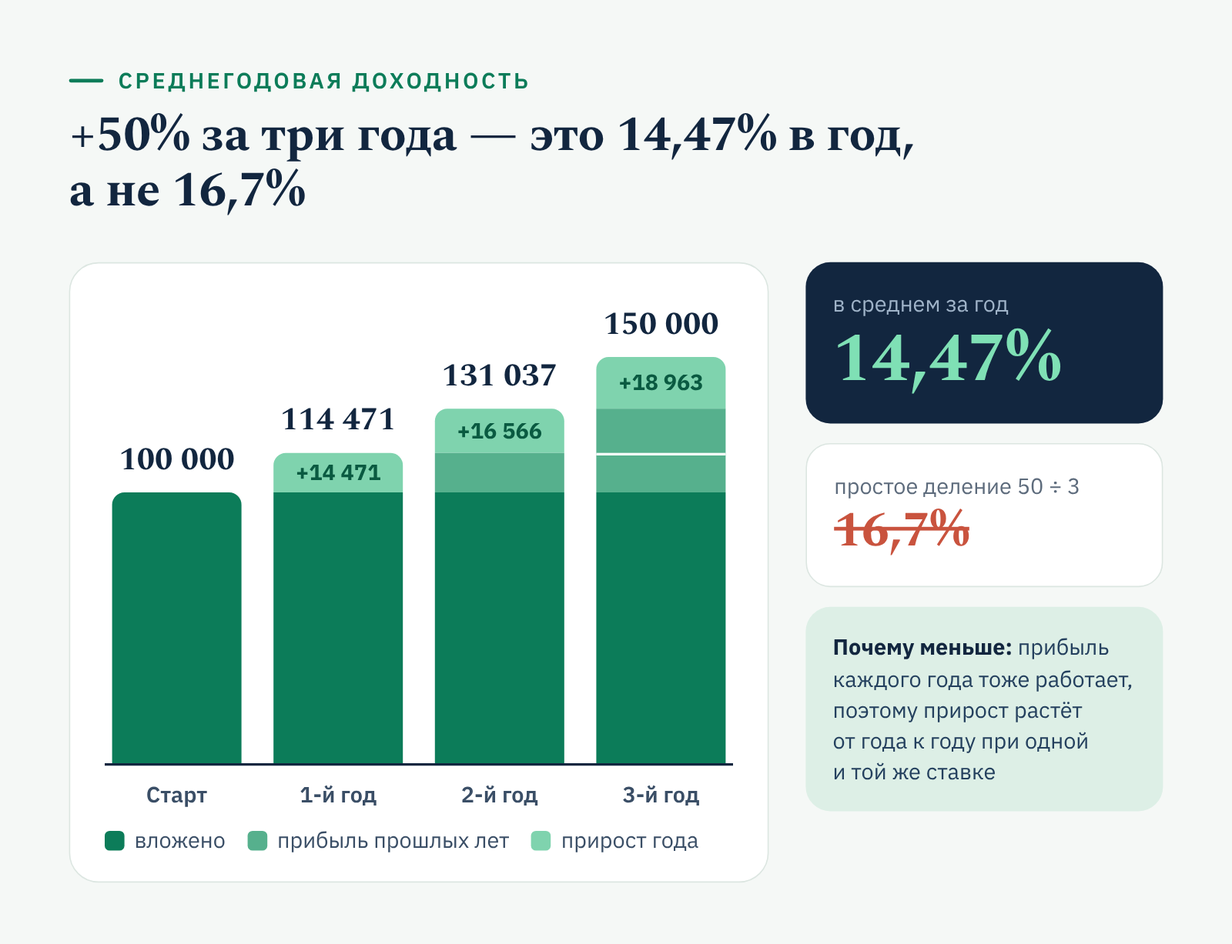
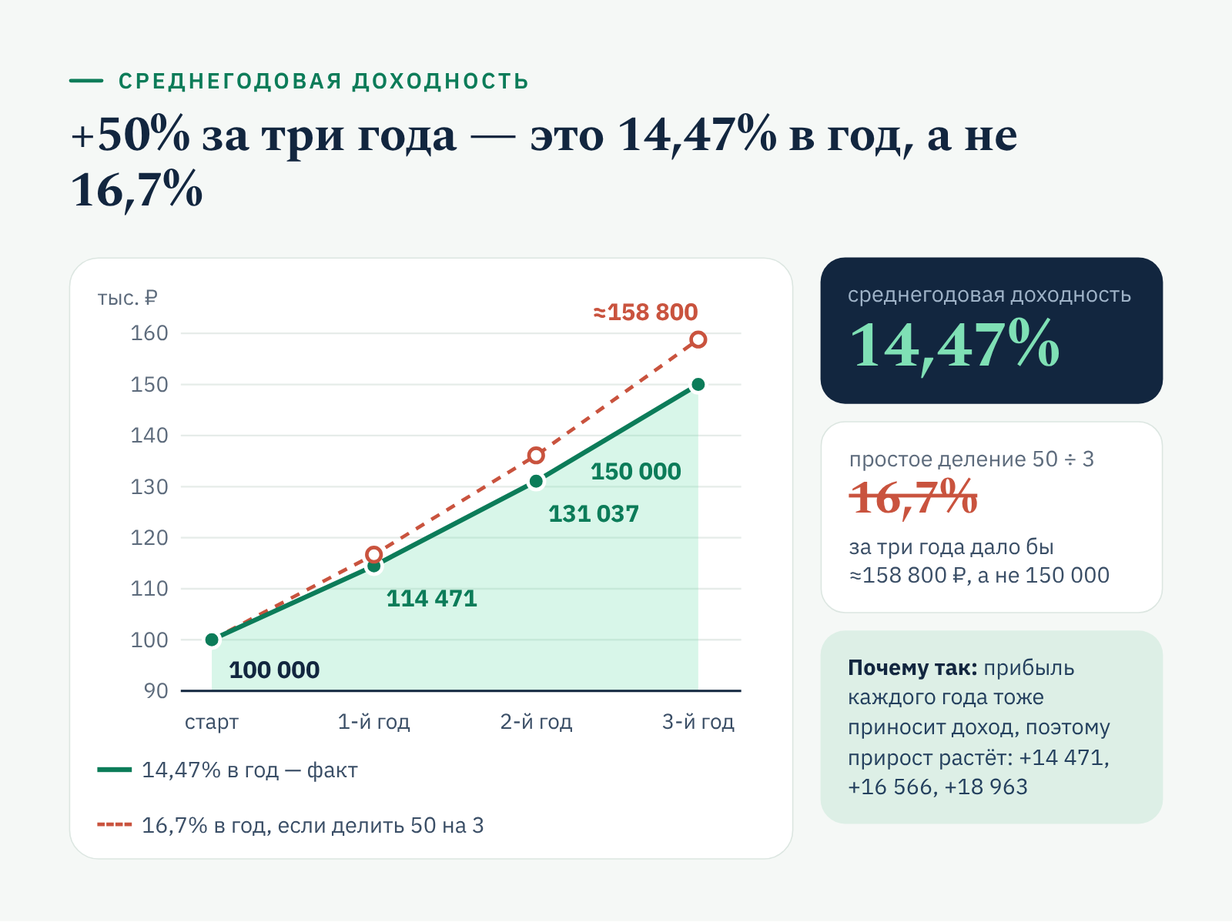
Финуслуги: метрики риска — новые графики; ПДС — картинка выше и перерисована
Claude-Session: https://claude.ai/code/session_019cK9yct1hn6hSG5cVDbxuB

diff --git a/works/finuslugi-1.html b/works/finuslugi-1.html
@@ -150,7 +150,7 @@ h1{font:800 clamp(34px,5.4vw,68px)/1 var(--display);letter-spacing:-.04em;margin
       <div class="tdr">
         <section><h3>Задача</h3><p>Объяснить частному инвестору, по каким метрикам оценивать доходность и риск вложений, — так, чтобы формулы стали рабочим инструментом, а не теорией из учебника.</p></section>
         <section><h3>Решение</h3><p>Выстроила статью от понятий к расчётам: что съедает доходность (инфляция, налоги, комиссии), пять видов риска с реальными примерами (кризис 2008 года, банкротство Enron), затем шесть метрик — абсолютная и среднегодовая доходность, коэффициент Шарпа, VaR, бета, стандартное отклонение — с формулой и разобранным примером для каждой. Финал — восемь практических рекомендаций. Все расчёты в тексте и инфографике пересчитала вручную.</p></section>
-        <section class="res"><h3>Результат</h3><p>Сложная инвестиционная тема изложена на языке частного инвестора: каждая формула сопровождается расчётом на понятных суммах, а пять схем показывают реальную доходность, карту рисков, сложный процент, VaR на кривой распределения и стандартное отклонение по шагам.</p></section>
+        <section class="res"><h3>Результат</h3><p>Сложная инвестиционная тема изложена на языке частного инвестора: каждая формула сопровождается расчётом на понятных суммах, а шесть схем показывают реальную доходность как гонку денег и цен, концентрическую карту рисков, сложный процент на графике, VaR на кривой распределения, стандартное отклонение через квадраты отклонений и мини-дашборд из четырёх метрик.</p></section>
       </div>
       
       <nav class="sibs" aria-label="Другие тексты для этого заказчика"><span class="eyebrow">Ещё для «Финуслуги»</span><ul><li><a href="finuslugi-1.html" aria-current=page>Метрики риска и доходности</a></li><li><a href="finuslugi-2.html">Программа долгосрочных сбережений</a></li><li><a href="finuslugi-3.html">Депозиты для бизнеса</a></li><li><a href="finuslugi-faq.html">FAQ для продуктовой страницы</a></li></ul></nav>
@@ -179,8 +179,8 @@ h1{font:800 clamp(34px,5.4vw,68px)/1 var(--display);letter-spacing:-.04em;margin
 <p><strong>Инфляция уменьшает реальную стоимость прибыли.</strong> Если актив приносит 12% годовых, а инфляция составляет 10%, реальная доходность — всего около 2%. Для долгосрочных вложений этот фактор может оказаться решающим.</p>
 <p><strong>Налоги уменьшают чистый доход.</strong> Для разных активов и видов дохода действуют свои правила налогообложения. Уточняйте налоговые обязательства заранее, особенно если получаете дивиденды или купоны.</p>
 <figure>
-<img alt="Из 12% номинальной доходности при инфляции 10% реально остаётся около 2% — и это ещё до налогов и комиссий" height="1302" loading="lazy" src="img/finuslugi-1/01.png" width="1600"/>
-<figcaption aria-hidden="true">Из 12% номинальной доходности при инфляции 10% реально остаётся около 2% — и это ещё до налогов и комиссий</figcaption>
+<img alt="Деньги растут на 12%, а цены — на 10%: в реальном выражении остаётся около 2%, и это ещё до налогов и комиссий" height="1126" loading="lazy" src="img/finuslugi-1/01.png" width="1600"/>
+<figcaption aria-hidden="true">Деньги растут на 12%, а цены — на 10%: в реальном выражении остаётся около 2%, и это ещё до налогов и комиссий</figcaption>
 </figure>
 <p><strong>Комиссии сокращают общий результат.</strong> Плата брокеру за сделки, вознаграждение управляющей компании или фонду напрямую уменьшают прибыль. Регулярные комиссии могут «съедать» заметную часть заработка, даже если активы растут.</p>
 <p>Учитывая все три фактора, вы оцениваете доходность реалистично и точнее планируете финансовые цели.</p>
@@ -191,8 +191,8 @@ h1{font:800 clamp(34px,5.4vw,68px)/1 var(--display);letter-spacing:-.04em;margin
 <p><strong>Кредитный риск</strong> возникает, когда контрагент — например, эмитент облигаций — не выполняет обязательства. Если компания-эмитент обанкротится, инвесторы могут потерять вложения. Хрестоматийный пример — крах американской Enron в 2001 году, обернувшийся огромными убытками для её акционеров и кредиторов.</p>
 <p><strong>Риск ликвидности</strong> — это трудности с продажей актива по справедливой цене. Коммерческую недвижимость, например, бывает сложно быстро продать без существенной скидки.</p>
 <figure>
-<img alt="Пять видов риска, с которыми сталкивается инвестор, и откуда каждый из них берётся" height="1365" loading="lazy" src="img/finuslugi-1/02.png" width="1600"/>
-<figcaption aria-hidden="true">Пять видов риска, с которыми сталкивается инвестор, и откуда каждый из них берётся</figcaption>
+<img alt="Риски расходятся кругами — от свойств самого актива до мировой политики" height="1235" loading="lazy" src="img/finuslugi-1/02.png" width="1600"/>
+<figcaption aria-hidden="true">Риски расходятся кругами — от свойств самого актива до мировой политики</figcaption>
 </figure>
 <p><strong>Операционный риск</strong> связан со сбоями внутри компании: ошибками управления, отказами IT-систем, мошенничеством. Утечка данных в крупной компании оборачивается убытками и падением стоимости её акций.</p>
 <p><strong>Геополитический риск</strong> возникает из-за изменений в политической и экономической обстановке. Санкции, торговые войны, новые пошлины и налоговые правила могут резко повлиять на стоимость активов, привести к заморозке вложений или потере доступа к зарубежным рынкам.</p>
@@ -208,8 +208,8 @@ h1{font:800 clamp(34px,5.4vw,68px)/1 var(--display);letter-spacing:-.04em;margin
 <p><strong>Формула:</strong> среднегодовая доходность = (конечная стоимость ÷ начальная стоимость)^(1/n) − 1, где n — количество лет.</p>
 <p><strong>Пример.</strong> Вложение выросло со 100 000 до 150 000 рублей за три года: (150 000 ÷ 100 000)^(1/3) − 1 ≈ 0,1447, то есть <strong>14,47% годовых</strong>.</p>
 <figure>
-<img alt="Как 100 000 рублей превращаются в 150 000 за три года при среднегодовой доходности 14,47%" height="1227" loading="lazy" src="img/finuslugi-1/03.png" width="1600"/>
-<figcaption aria-hidden="true">Как 100 000 рублей превращаются в 150 000 за три года при среднегодовой доходности 14,47%</figcaption>
+<img alt="Сложный процент на графике: 14,47% в год дают ровно 150 000 рублей за три года, а 16,7% с реинвестированием дали бы около 158 800" height="1198" loading="lazy" src="img/finuslugi-1/03.png" width="1600"/>
+<figcaption aria-hidden="true">Сложный процент на графике: 14,47% в год дают ровно 150 000 рублей за три года, а 16,7% с реинвестированием дали бы около 158 800</figcaption>
 </figure>
 <p>Обратите внимание: общий прирост за три года — 50%, но в пересчёте на год это не 16,7%, а 14,47%. Метрика позволяет честно сравнивать активы с разными сроками инвестирования.</p>
 <h3>Коэффициент Шарпа</h3>
@@ -244,12 +244,16 @@ h1{font:800 clamp(34px,5.4vw,68px)/1 var(--display);letter-spacing:-.04em;margin
 <p><strong>Формула:</strong> σ = √( Σ(Rᵢ − R̄)² ÷ N ), где Rᵢ — доходность за период, R̄ — средняя доходность, N — количество периодов.</p>
 <p><strong>Пример.</strong> Доходность актива за три года — 10%, 15% и 20%. Средняя доходность: (10 + 15 + 20) ÷ 3 = 15%. Стандартное отклонение: √(((10 − 15)² + (15 − 15)² + (20 − 15)²) ÷ 3) = √(50 ÷ 3) ≈ <strong>4,1%</strong>.</p>
 <figure>
-<img alt="Стандартное отклонение по шагам: от средней доходности к разбросу около 4,1 п. п." height="986" loading="lazy" src="img/finuslugi-1/05.png" width="1600"/>
-<figcaption aria-hidden="true">Стандартное отклонение по шагам: от средней доходности к разбросу около 4,1 п. п.</figcaption>
+<img alt="Стандартное отклонение по шагам: отклонения от средней, их квадраты и корень из среднего квадрата — около 4,1%" height="1146" loading="lazy" src="img/finuslugi-1/05.png" width="1600"/>
+<figcaption aria-hidden="true">Стандартное отклонение по шагам: отклонения от средней, их квадраты и корень из среднего квадрата — около 4,1%</figcaption>
 </figure>
 <p>Чем выше стандартное отклонение, тем сильнее колеблется доходность и тем менее предсказуем результат. Этот же показатель стоит в знаменателе коэффициента Шарпа и в формуле VaR — поэтому волатильность влияет сразу на несколько метрик риска.</p>
 <h2>Баланс между доходностью и безопасностью</h2>
 <p>Метрики помогают найти баланс между прибылью и риском. Актив с высокой доходностью может не подойти консервативному инвестору, если у него слишком большие стандартное отклонение и VaR. Коэффициент Шарпа помогает выбрать инструменты с лучшим соотношением риска и доходности, а бета — понять, как портфель поведёт себя при резком движении рынка.</p>
+<figure>
+<img alt="Четыре метрики на примерах из статьи: каждая отвечает на свой вопрос о портфеле" height="1277" loading="lazy" src="img/finuslugi-1/06.png" width="1600"/>
+<figcaption aria-hidden="true">Четыре метрики на примерах из статьи: каждая отвечает на свой вопрос о портфеле</figcaption>
+</figure>
 <blockquote>
 <p><strong>Главное правило:</strong> анализируйте метрики в комплексе. Ни одна из них по отдельности не даёт полной картины — вместе они показывают, подходит ли портфель вашим целям и допустимому уровню риска.</p>
 </blockquote>

diff --git a/works/finuslugi-2.html b/works/finuslugi-2.html
@@ -210,6 +210,20 @@ h1{font:800 clamp(34px,5.4vw,68px)/1 var(--display);letter-spacing:-.04em;margin
 <h2>Обязательна ли программа</h2>
 <p>Нет. <strong>ПДС — исключительно добровольный формат</strong>, и каждый сам решает, нужны ли ему дополнительные накопления. Возврат части налога и ежегодное софинансирование служат стимулом, а не обязанностью.</p>
 <p>Условия гибкие: размер и периодичность взносов зависят от возможностей участника. Фонды предлагают разные инвестиционные стратегии — от консервативных, с упором на облигации, до более рискованных. Агрессивная стратегия может принести больший доход, но стоимость активов при ней сильнее колеблется. Консервативная даёт умеренный, зато стабильный результат.</p>
+<h2>Кому подходит программа</h2>
+<p>ПДС подходит широкому кругу людей, но выгода у каждой группы своя.</p>
+<ul>
+<li><strong>Молодёжь и люди трудоспособного возраста.</strong> Чем раньше начать, тем сильнее эффект сложного процента. Регулярные взносы вместе с господдержкой формируют заметный резерв к пенсии.</li>
+<li><strong>Люди пенсионного возраста.</strong> Могут копить и получать господдержку, но деньги станут доступны через 15 лет или по достижении установленного возраста.</li>
+<li><strong>Работодатели.</strong> Корпоративные программы ПДС повышают лояльность сотрудников и помогают удерживать ценные кадры.</li>
+<li><strong>Родители.</strong> Могут заключить договор в пользу ребёнка и начать копить на его будущие крупные цели.</li>
+</ul>
+<p>Для всех групп работают одни и те же механизмы — личные взносы, господдержка, налоговый вычет и страхование накоплений.</p>
+<figure>
+<img alt="Механизмы ПДС одинаковы для всех участников, а цели у каждой группы свои" height="1301" loading="lazy" src="img/finuslugi-2/03.png" width="1600"/>
+<figcaption aria-hidden="true">Механизмы ПДС одинаковы для всех участников, а цели у каждой группы свои</figcaption>
+</figure>
+<p>Разница — в цели: у одних это прибавка к пенсии, у других — инструмент удержания сотрудников или капитал для ребёнка. А срок для всех одинаковый: деньги станут доступны через 15 лет или по достижении 55 лет для женщин и 60 лет для мужчин.</p>
 <h2>Можно ли досрочно забрать деньги из ПДС</h2>
 <p>Да, но только в определённых случаях. <strong>В особых жизненных ситуациях — при дорогостоящем лечении или потере кормильца — участник может забрать до 100% накоплений.</strong> Обстоятельства нужно подтвердить документами.</p>
 <p>Если выйти из программы досрочно без веской причины, можно потерять инвестиционный доход и часть преимуществ — софинансирование и налоговый вычет. Поэтому решение о расторжении договора стоит взвесить заранее: программа рассчитана на длительный срок и цель у неё одна — накопить резерв к пенсии или через 15 лет.</p>
@@ -258,7 +272,7 @@ h1{font:800 clamp(34px,5.4vw,68px)/1 var(--display);letter-spacing:-.04em;margin
 </table></div>
 <p>Чем ниже доход, тем щедрее доплата: при зарплате до 80 000 рублей государство фактически удваивает каждый рубль взноса. Такая схема действует десять лет, а право на налоговый вычет можно использовать параллельно.</p>
 <figure>
-<img alt="Сколько нужно внести самому, чтобы получить максимальные 36 000 рублей господдержки, — при разном доходе" height="1446" loading="lazy" src="img/finuslugi-2/03.png" width="1600"/>
+<img alt="Сколько нужно внести самому, чтобы получить максимальные 36 000 рублей господдержки, — при разном доходе" height="1446" loading="lazy" src="img/finuslugi-2/04.png" width="1600"/>
 <figcaption aria-hidden="true">Сколько нужно внести самому, чтобы получить максимальные 36 000 рублей господдержки, — при разном доходе</figcaption>
 </figure>
 <p>Если сложить софинансирование и вычет, при взносе 36 000 рублей в год человек с доходом до 80 000 рублей получает от государства 36 000 рублей доплаты и может вернуть 13% от взноса — ещё 4680 рублей.</p>
@@ -282,19 +296,6 @@ h1{font:800 clamp(34px,5.4vw,68px)/1 var(--display);letter-spacing:-.04em;margin
 <h2>ПДС для людей пенсионного возраста</h2>
 <p>Участвовать в программе можно и в старшем возрасте: формат по-прежнему добровольный. Гражданин оценивает объём накоплений, планы на работу и личные потребности. Иногда разумнее вложить свободные деньги в инструменты с более коротким сроком.</p>
 <p>Главный риск длинных накоплений — инфляция, которая снижает покупательную способность денег. Сравнивайте фактическую доходность фонда за несколько лет с официальными данными о росте цен: стратегия, которая стабильно обгоняет инфляцию, повышает шансы сохранить и приумножить капитал.</p>
-<h2>Кому подходит программа</h2>
-<p>ПДС подходит широкому кругу людей, но выгода у каждой группы своя.</p>
-<ul>
-<li><strong>Молодёжь и люди трудоспособного возраста.</strong> Чем раньше начать, тем сильнее эффект сложного процента. Регулярные взносы вместе с господдержкой формируют заметный резерв к пенсии.</li>
-<li><strong>Люди пенсионного возраста.</strong> Могут копить и получать господдержку, но деньги станут доступны через 15 лет или по достижении установленного возраста.</li>
-<li><strong>Работодатели.</strong> Корпоративные программы ПДС повышают лояльность сотрудников и помогают удерживать ценные кадры.</li>
-<li><strong>Родители.</strong> Могут заключить договор в пользу ребёнка и начать копить на его будущие крупные цели.</li>
-</ul>
-<p>Для всех групп работают одни и те же механизмы — личные взносы, господдержка, налоговый вычет и страхование накоплений. Разница в цели: у одних это прибавка к пенсии, у других — инструмент удержания сотрудников или капитал для ребёнка.</p>
-<figure>
-<img alt="Кому и чем выгодна программа долгосрочных сбережений" height="1016" loading="lazy" src="img/finuslugi-2/04.png" width="1600"/>
-<figcaption aria-hidden="true">Кому и чем выгодна программа долгосрочных сбережений</figcaption>
-</figure>
 <p><strong>Долгосрочные сбережения поддерживают уровень жизни в пожилом возрасте и служат страховкой на случай сложных обстоятельств.</strong> Главное — выбрать надёжный фонд, подходящую стратегию и не прерывать взносы.</p>
 
       </div>
